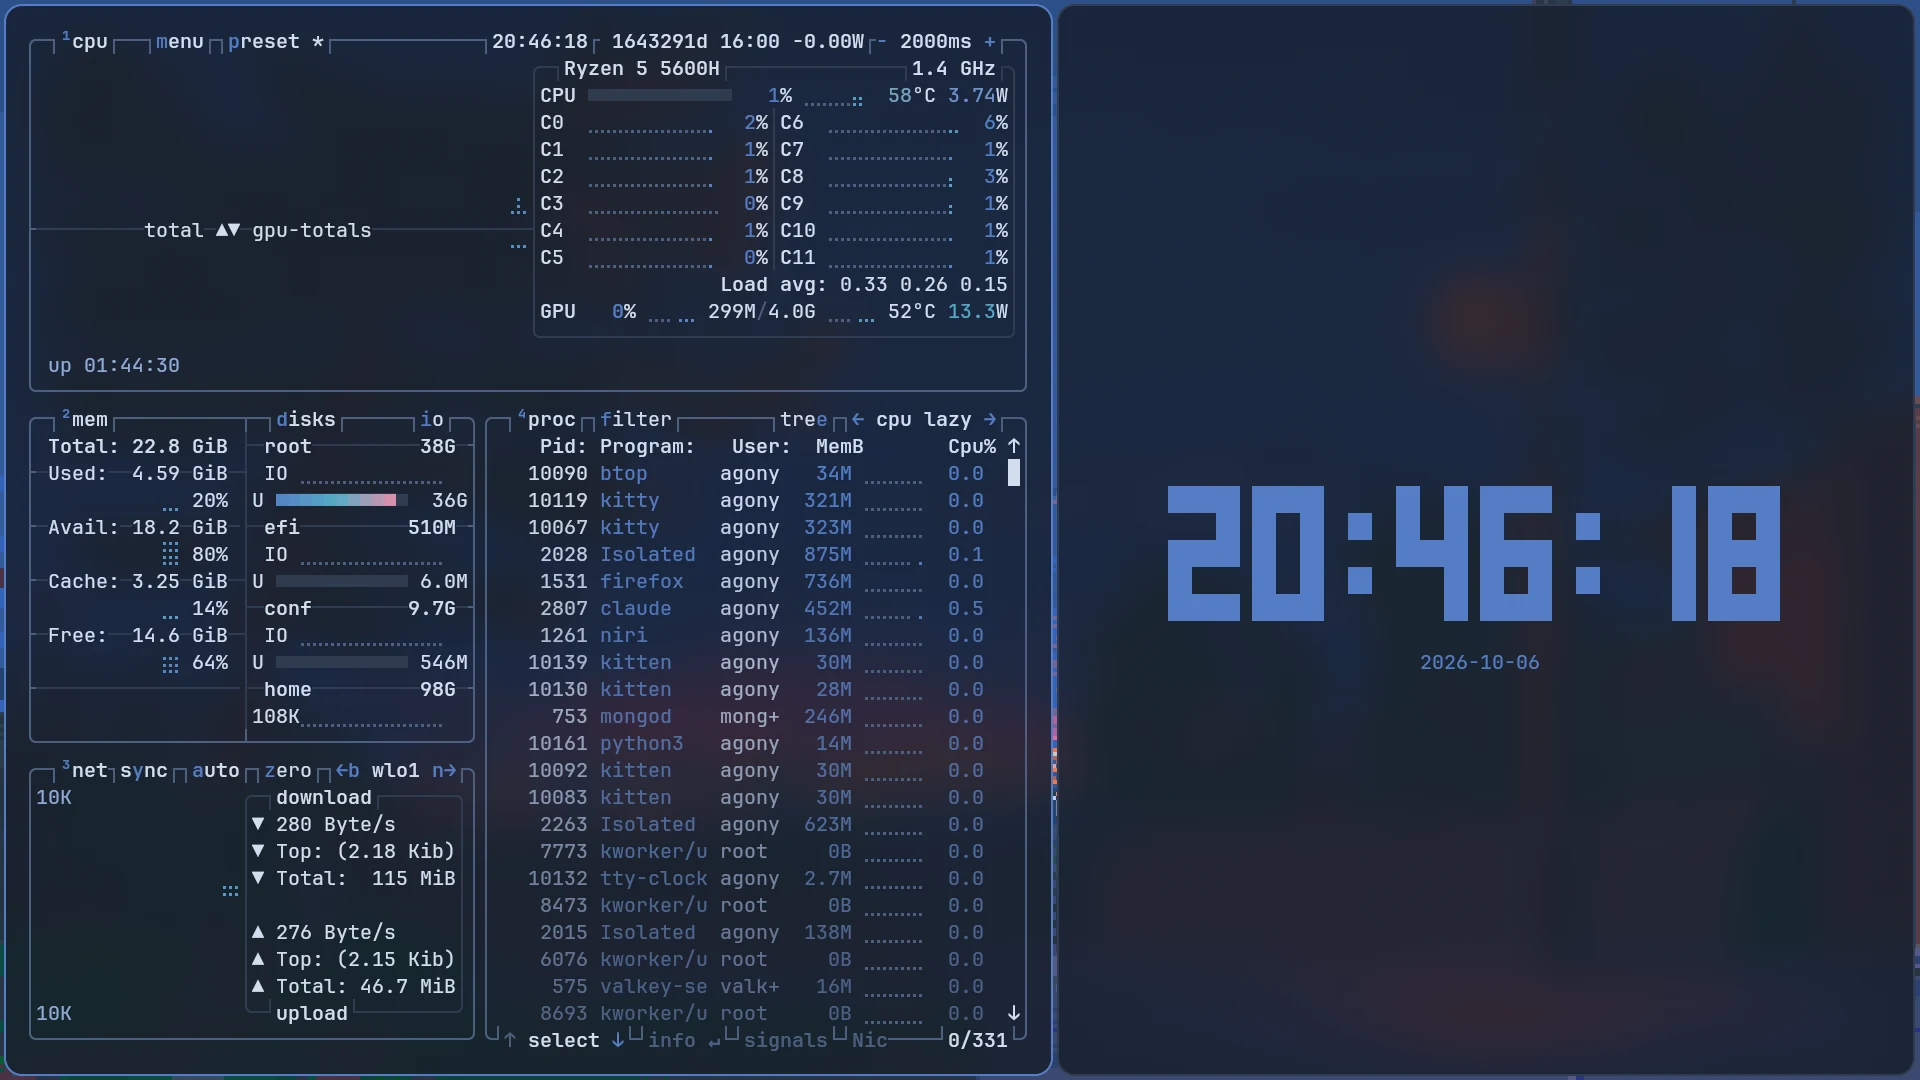
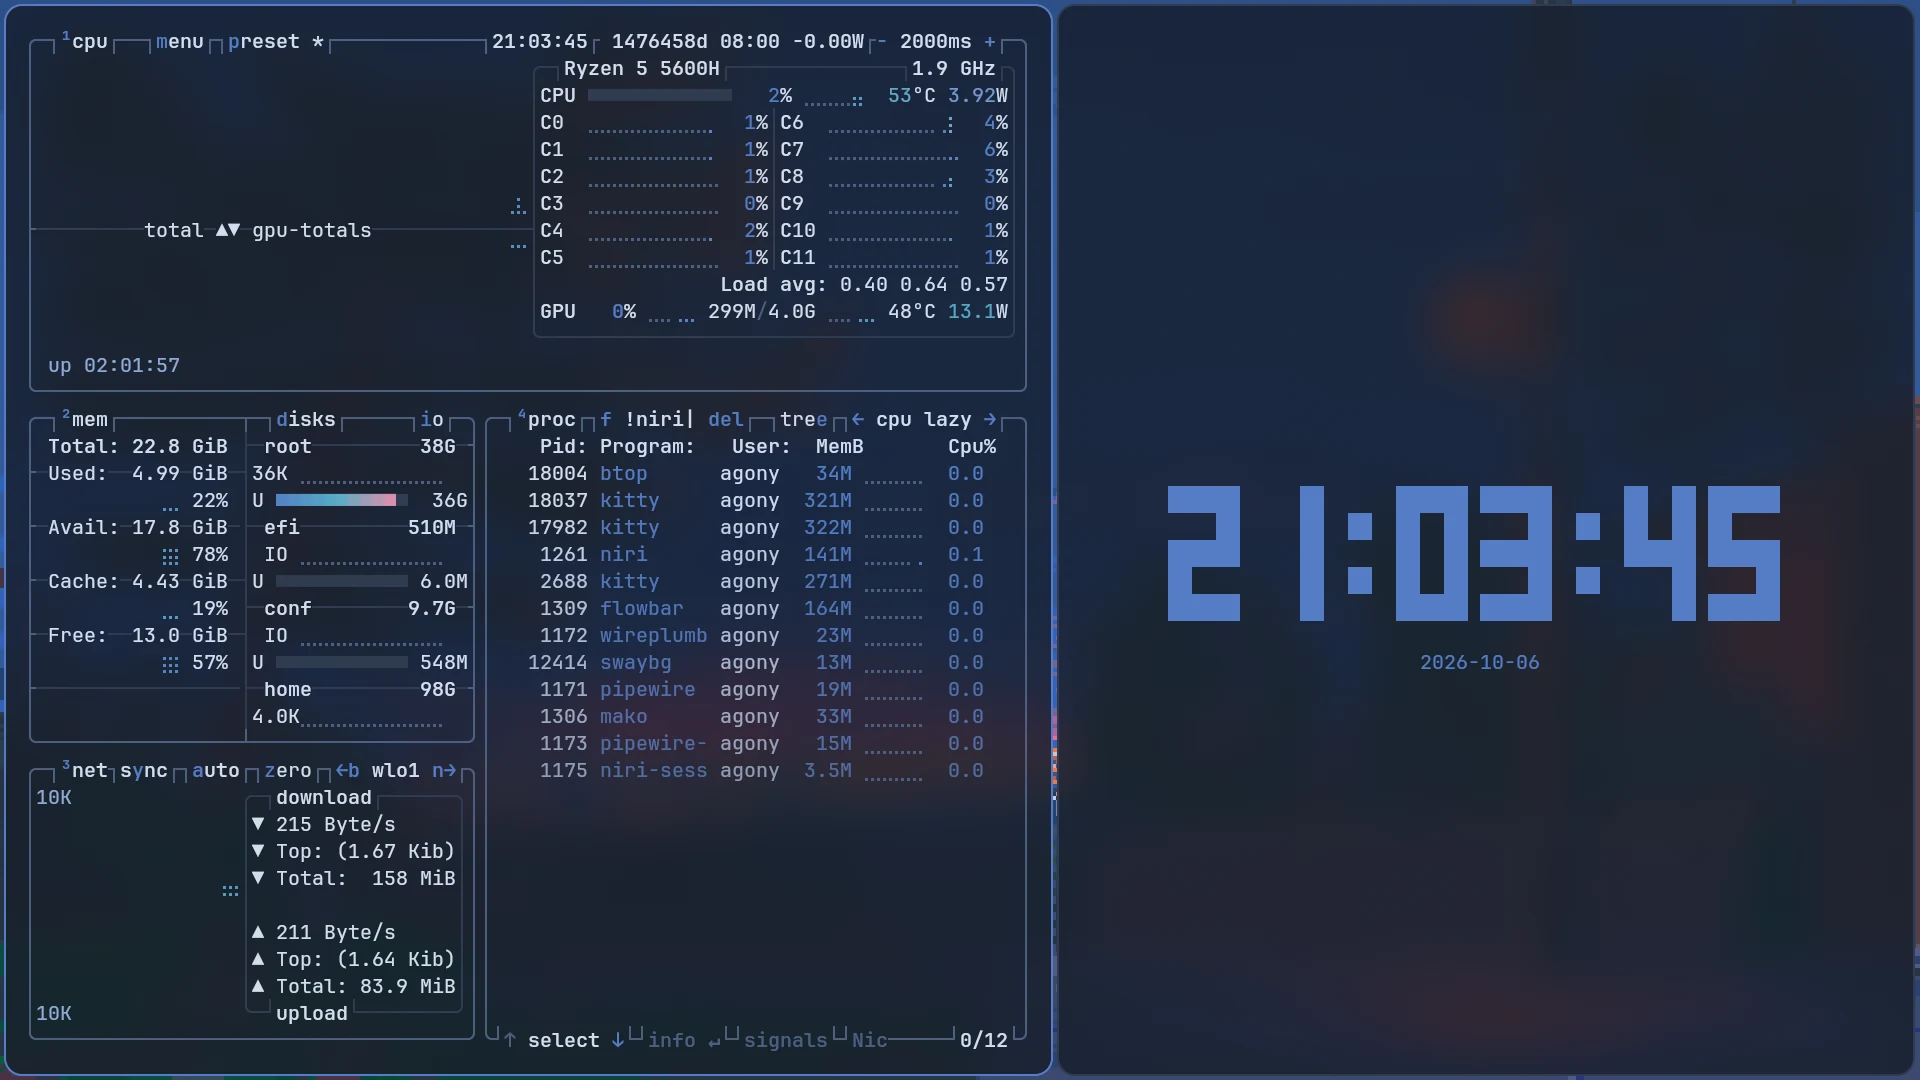
README: add slat, VS Code, Spotify and Dolphin to the tour
Retake the tiling shot with btop filtered to desktop processes.

diff --git a/README.MD b/README.MD
@@ -43,6 +43,25 @@ opacity and blurs what's behind it.
 
 <img src="screenshots/tiling.webp" alt="btop and tty-clock side by side in two translucent kitty columns" width="100%">
 
+### slat
+
+[slat](https://github.com/noturbob/slat), my own terminal multiplexer: splits, tabs and a status line, recoloured live by
+themely. It's scriptable too: `slat pane new --split v --cmd htop` built this layout.
+
+<img src="screenshots/slat.webp" alt="slat with vim, a clock and htop in three panes" width="100%">
+
+### VS Code
+
+The Catppuccin theme with themely's colours on top, so the editor follows the wallpaper like everything else.
+
+<img src="screenshots/vscode.webp" alt="VS Code editing a shell script from this repo, themed to match the desktop" width="100%">
+
+### Spotify
+
+Spicetify brings Spotify into the theme too.
+
+<img src="screenshots/spotify.webp" alt="Spotify home page themed with spicetify to match the desktop" width="100%">
+
 ### Zen, edge to edge
 
 Zen in compact mode, so the page runs to the window's edge. Pywalfox keeps Zen and Firefox on the current theme.
@@ -54,6 +73,12 @@ Zen in compact mode, so the page runs to the window's edge. Pywalfox keeps Zen a
 `fuzzel` on **Mod+D**, recoloured with everything else.
 
 <img src="screenshots/fuzzel.webp" alt="fuzzel application launcher over the wallpaper" width="100%">
+
+### Files
+
+Dolphin, translucent like every other window, with GTK and KDE apps following the theme.
+
+<img src="screenshots/dolphin.webp" alt="Dolphin file manager showing this repo, translucent over the wallpaper" width="100%">
 
 ### Bar and notifications
 
